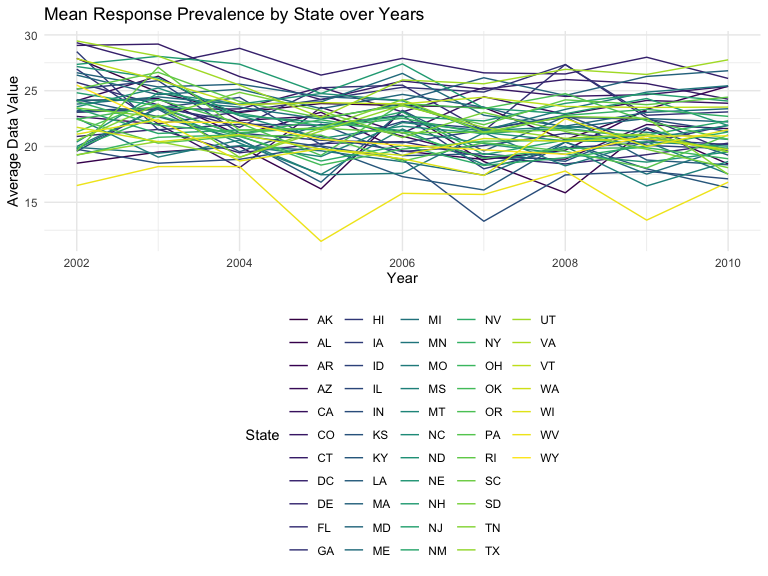
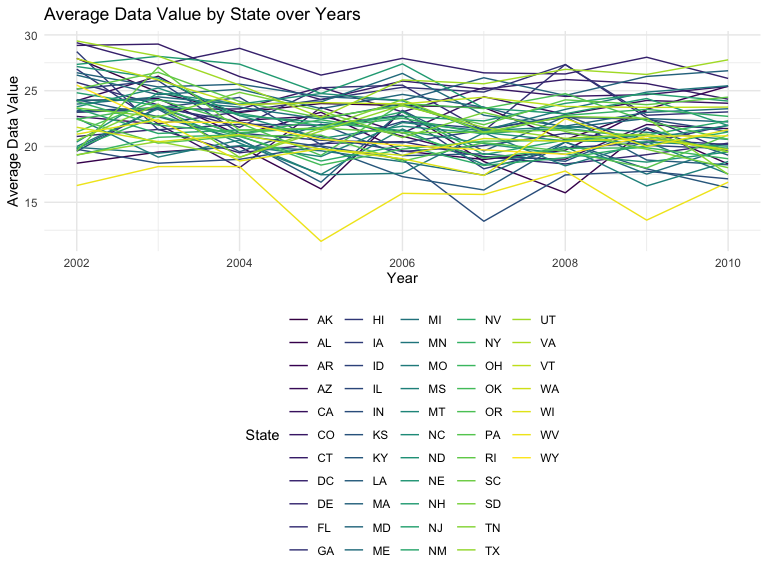
adding comments and fixing things

Changed region(s): [[0.0625, 0.0, 0.5625, 0.0625]]

diff --git a/p8105_hw3_jer2243.md b/p8105_hw3_jer2243.md
@@ -145,7 +145,7 @@ brfss_smart2010_tidy = brfss_smart2010 |>
   transform(response = factor(response, levels = levels, labels = values, ordered = TRUE))
 ```
 
-This dataset contains 10625 rows and 23 columns. It
+This dataset contains 10625 rows and 23 columns.
 
 ## In 2002, which states were observed at 7 or more locations? What about in 2010?
 
@@ -215,7 +215,7 @@ brfss_excellent = brfss_smart2010_tidy |>
   select(year, locationabbr, data_value_avg)
 ```
 
-The dataset limited to “excellent” responses consists off 2,125
+The dataset limited to “excellent” responses consists of 2125
 observations.
 
 ## Spaghetti plot of the avg value over time within a state
@@ -224,27 +224,33 @@ observations.
 ggplot(brfss_excellent, aes(x=year, y=data_value_avg, color=locationabbr, group=locationabbr)) + 
   geom_line() +
   labs(x="Year", y="Average Data Value", color = "State") +
-  ggtitle("Mean Response Prevalence by State over Years")
+  ggtitle("Average Data Value by State over Years")
 ```
 
 <img src="p8105_hw3_jer2243_files/figure-gfm/unnamed-chunk-10-1.png" width="90%" />
-ADD COMMENTS HERE
+In general, the average data value has fluctuated over the years but
+appears to have decreased slightly overall. Most average data values
+fall between 17.5 and 27.5, with a few outliers on either end.
 
 ## Two-panel plot
 
 ``` r
 ny_data <- brfss_smart2010_tidy |>
-  filter(locationabbr == "NY" & year %in% c(2006, 2010))
+  filter(locationabbr == "NY" & year %in% c(2006, 2010)) |>
+  separate(locationdesc, into =c("state", "county"), sep=5) |>
+  select(-state) |>
+  group_by(county)
 
-ggplot(ny_data, aes(x = data_value, fill = response)) +
-  geom_histogram(binwidth = 6, position = "dodge") +
-  facet_wrap(~ year, nrow = 1) +
-  labs(x = "Data Value", y = "Frequency", fill = "Response") +
+ggplot(ny_data, aes(x = data_value, y = response)) +
+  geom_point(aes(color=county)) +
+  facet_grid(.~year) +
   ggtitle("Distribution of Data Value by Response in NY State")
 ```
 
 <img src="p8105_hw3_jer2243_files/figure-gfm/unnamed-chunk-11-1.png" width="90%" />
-ADD COMMENTS HERE
+‘Data value’ values were the highest for the responses “good” and “very
+good”. Overall, data_value increased from 2006 to 2010, and the range of
+scores per response category also widened.
 
 # Problem 3
 
@@ -290,6 +296,9 @@ merged_data =
   left_join(demo_data, accel_data, by = "seqn")
 ```
 
+The full merged dataset with demographic and accelerometer data contains
+228 observations.
+
 ## Encode data with reasonable variable classes
 
 ``` r
@@ -328,7 +337,10 @@ merged_data_2 |>
 | male   | less than HS  |    27 |
 | male   | more than HS  |    56 |
 
-COMMENT
+For both males and females, the highest number of observations was in
+the “more than high school” education category. The lowest count for
+females was in the “HS equivalent” category, and the lowest count for
+males was in the “less than HS” category.
 
 ## Graph the age distributions for men and women in each education category
 
@@ -341,7 +353,11 @@ merged_data_2 |>
 ```
 
 <img src="p8105_hw3_jer2243_files/figure-gfm/unnamed-chunk-17-1.png" width="90%" />
-COMMENT
+Females in the highest education group tended to be younger, while males
+in the highest education group tended to be younger than 40 or above 60.
+Males and females in the “HS equivalent” or “less than HS” groups tended
+to be older or middle aged, and the distributions across sex appear
+fairly similar.
 
 ## Create total activity variable
 
@@ -365,4 +381,13 @@ ggplot(merged_data_3, aes(x = age, y = total_activity, color=sex)) +
     ## `geom_smooth()` using method = 'loess' and formula = 'y ~ x'
 
 <img src="p8105_hw3_jer2243_files/figure-gfm/unnamed-chunk-19-1.png" width="90%" />
+Overall, total activity tended to decrease as age increased for both
+sexes and all education groups. In the “HS equivalent” and “more than
+HS” groups, females tended to be more active than males, while in the
+“less than HS” group, males were slightly more active than females. The
+biggest difference in activity level between males and females was seen
+for those in the “HS equivalent” group between the ages of 30 and 50.
+
+## Make a 3-panel plot of the 24-hr activity time course for each education level and use color to indicate sex
+
 COMMENT
